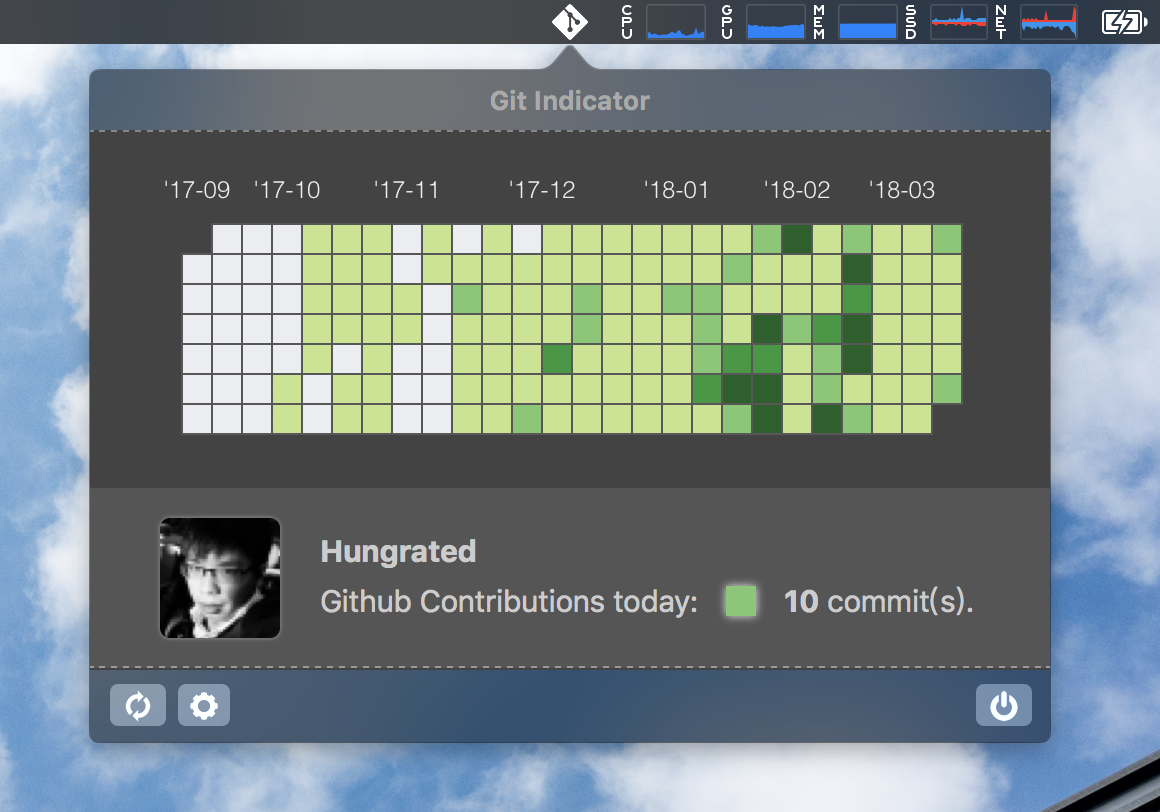
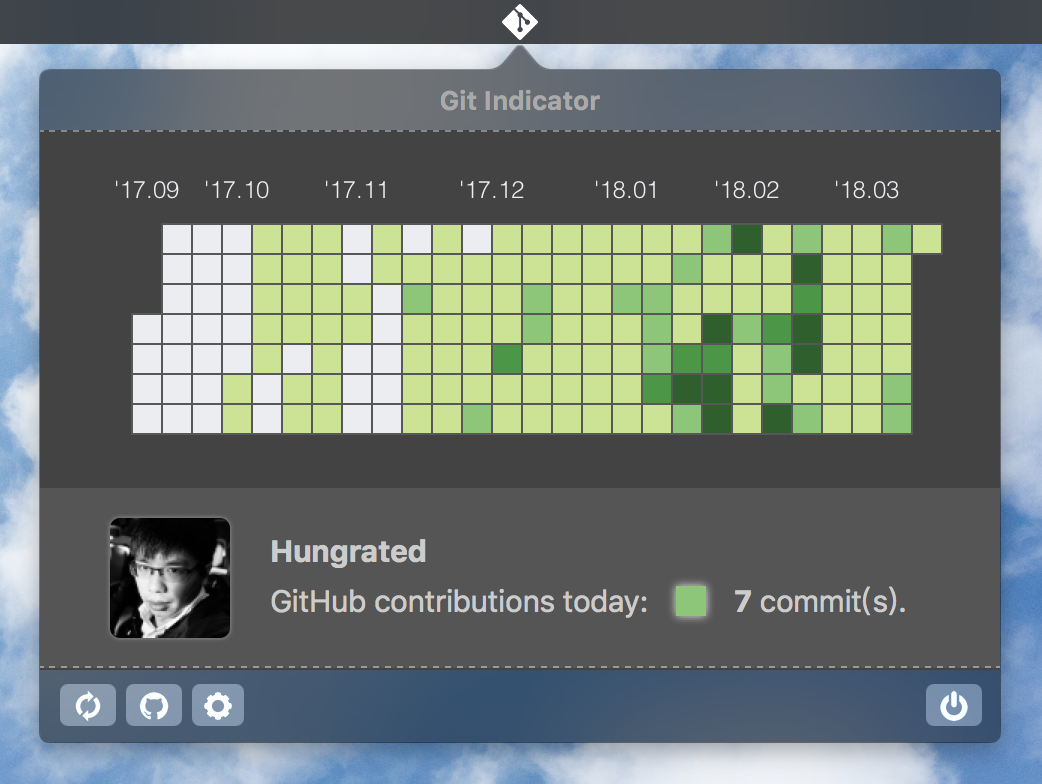
master: check version 1.1

diff --git a/README.md b/README.md
@@ -8,6 +8,14 @@ initial commit on 3 Mar 2018
 
 ### Changelog
 
+2018.03.25 - **Version 1.1**
+
+* fix bugs & add data parsing error handler
+
+* add homepage button
+
+* code reformat: modularization
+
 2018.03.23 - **Version 1.0** - initial version
 
 * indicates real-time git contributions
